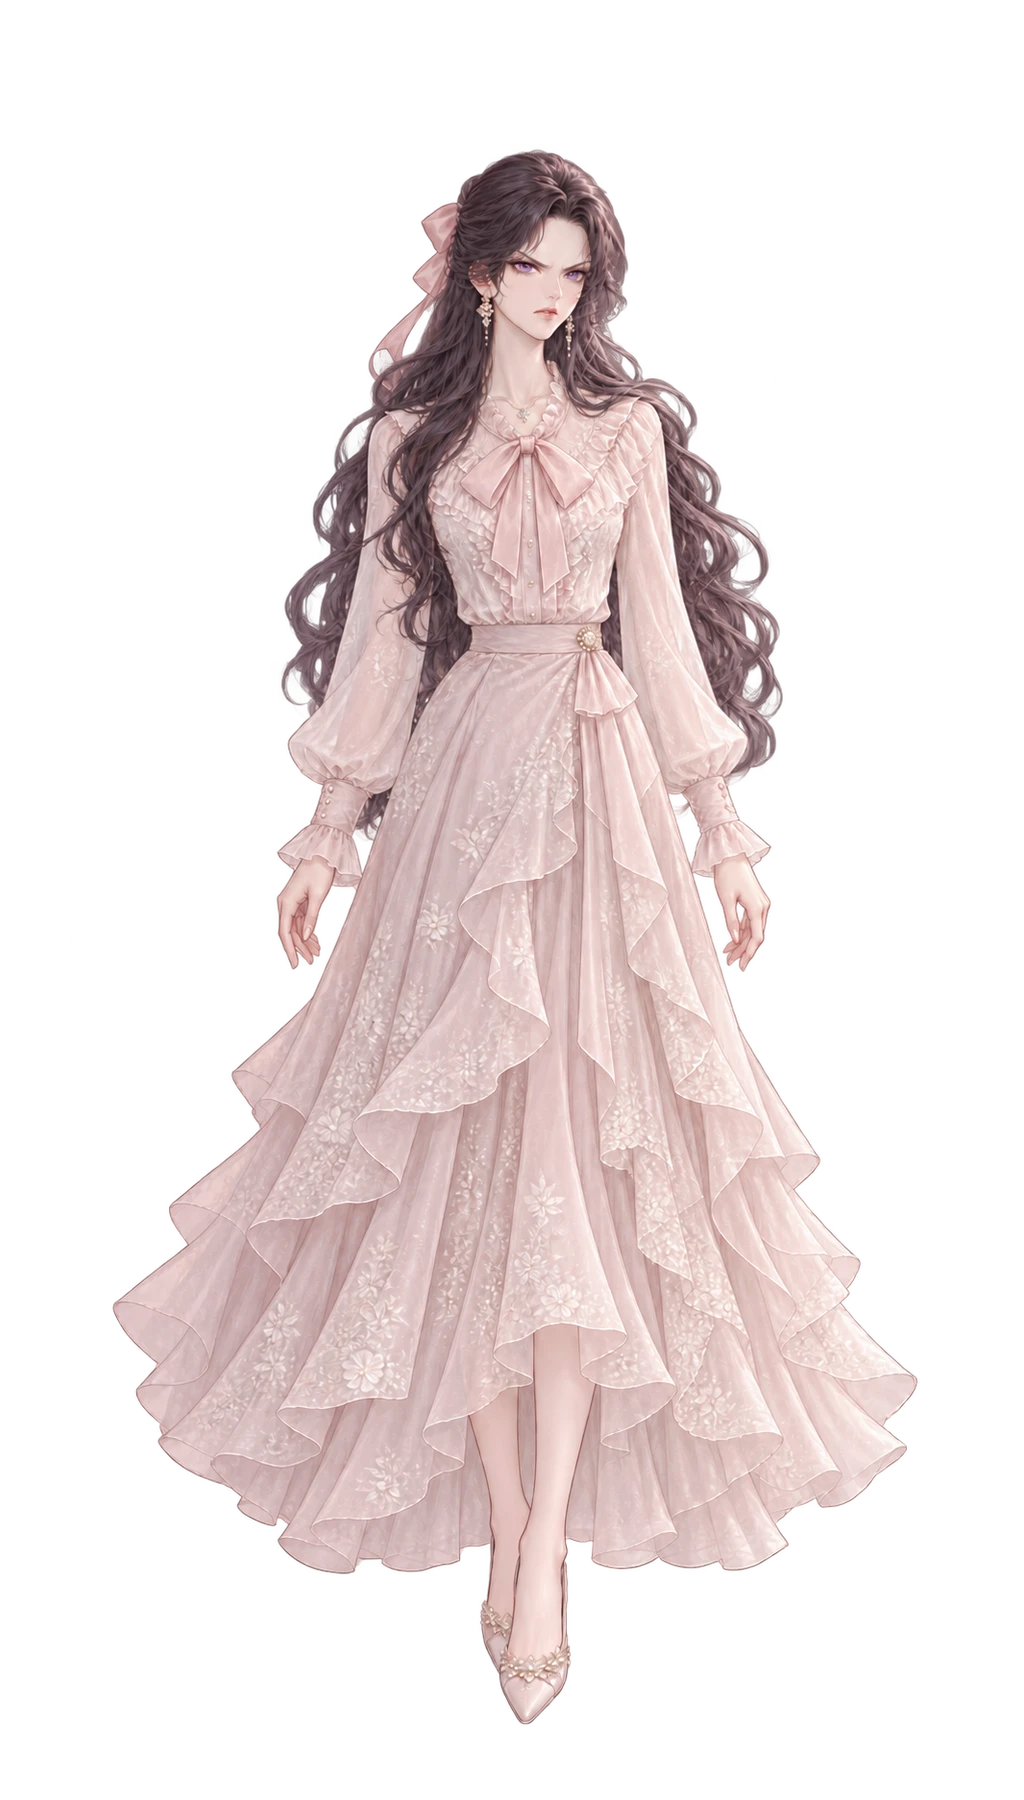
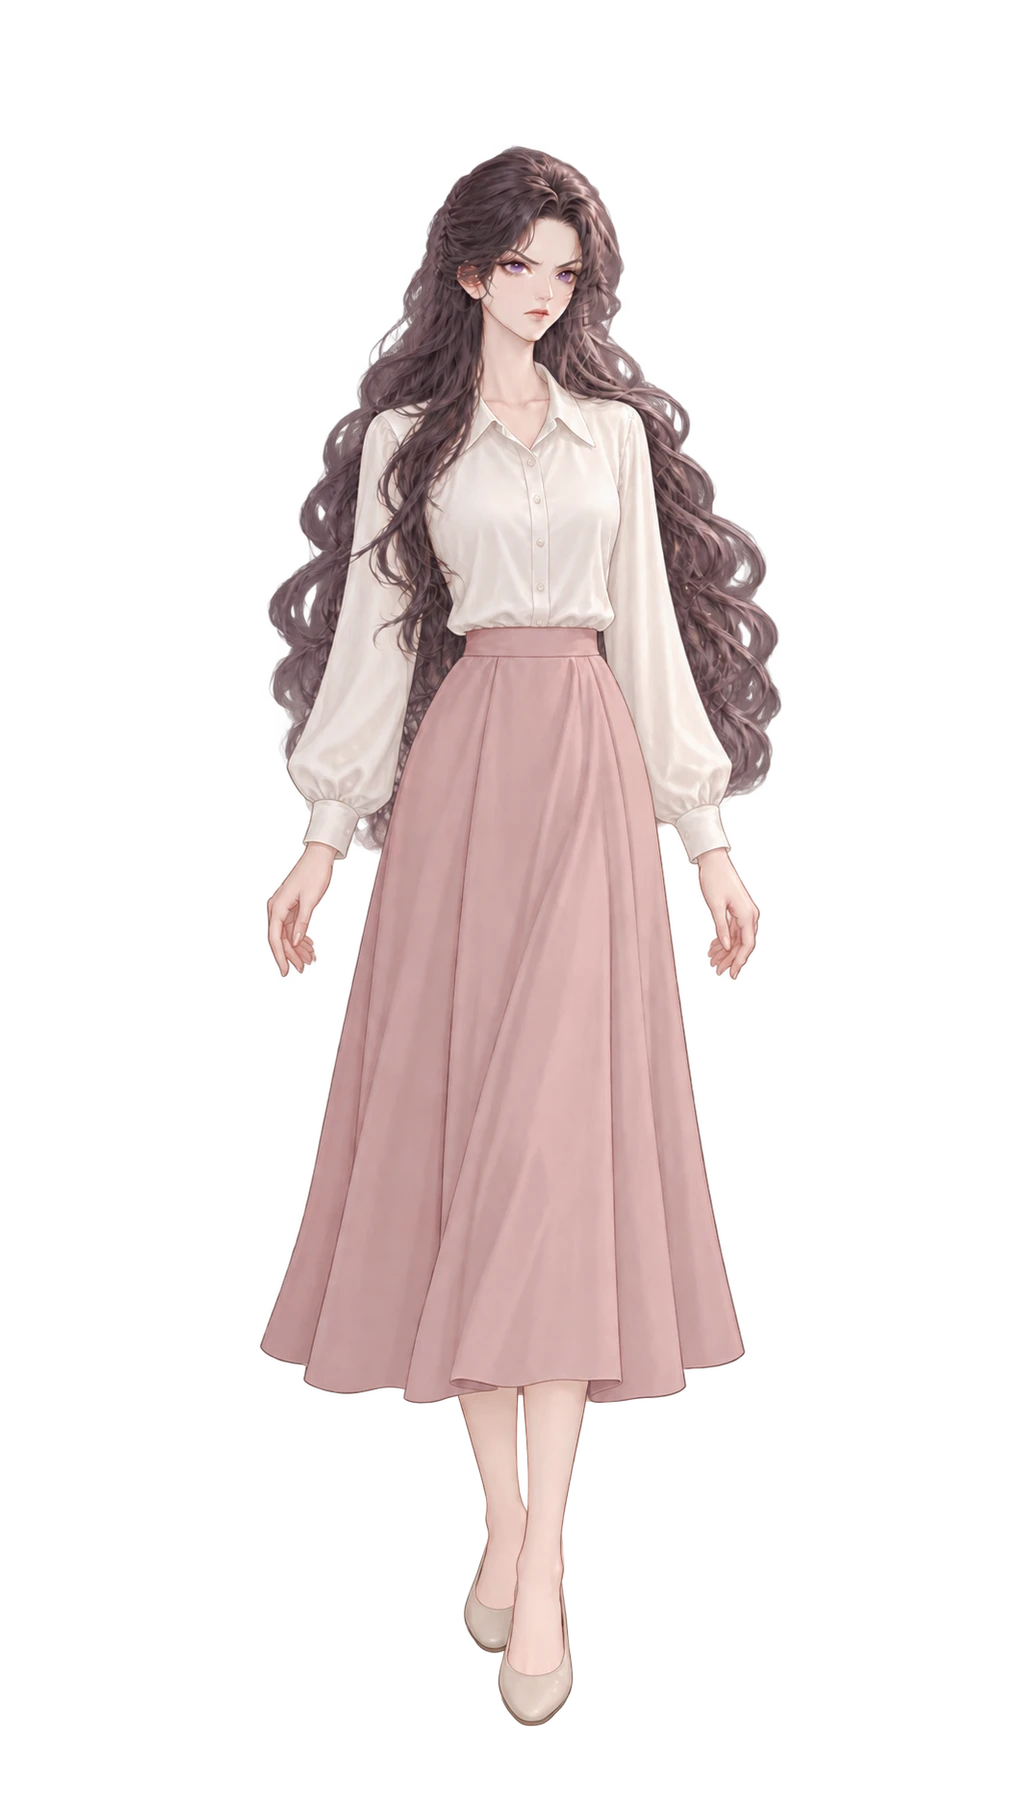
Integrate section10 art (S2 CGs, ning, expressions, love CGs)

Changed region(s): [[0.0938, 0.0622, 0.9062, 0.9644]]

diff --git a/js/assets.js b/js/assets.js
@@ -1,2 +1,2 @@
 // 自動生成：美術清單
-window.ASSETS = {"bg": ["black", "boardroom", "car", "court", "desk", "gala", "mansion", "office", "press", "rebirth", "room", "street", "wedding"], "cg": ["cg_all", "cg_board", "cg_fall", "cg_gown", "cg_gu_claim", "cg_lu_reject", "cg_necklace", "cg_outfit", "cg_week", "cg_wen_court", "cg_xiao_turn", "love_gu_1", "love_gu_2", "love_gu_3", "love_gu_4", "love_wen_1"], "chars": ["bai_normal_default", "bai_normal_red", "bai_normal_wedding", "dong_normal_default", "fa_normal_default", "gu_normal_default", "jiang_normal_default", "lm_normal_default", "lu_normal_default", "lu_normal_wedding", "rep_normal_default", "shen_angry_dying", "shen_angry_gala", "shen_angry_plain", "shen_angry_wedding", "shen_cold_dying", "shen_cold_gala", "shen_cold_wedding", "shen_normal_default", "shen_normal_dying", "shen_normal_gala", "shen_normal_plain", "shen_normal_suit", "shen_normal_wedding", "shen_sad_dying", "shen_sad_gala", "shen_sad_plain", "shen_sad_wedding", "shen_shock_dying", "shen_shock_gala", "shen_shock_plain", "shen_shock_wedding", "shen_smile_dying", "shen_smile_gala", "shen_smile_plain", "shen_smile_wedding", "shen_smirk_dying", "shen_smirk_gala", "shen_smirk_wedding", "wen_normal_default", "wen_normal_suit", "xiao_normal_coat", "xiao_normal_default"], "dress": ["night_acc_0", "night_acc_1", "night_acc_3", "night_dress_0", "night_dress_1", "night_dress_2", "night_dress_3", "shen_base", "star_acc_0", "star_acc_1", "star_acc_2", "star_acc_3", "star_dress_0", "star_dress_1", "star_dress_2", "star_dress_3", "star_hair_0", "star_hair_1", "star_hair_2"], "evidence": ["book_normal", "book_suspicious", "cup_normal", "cup_suspicious", "laptop_normal", "laptop_suspicious", "paper_normal", "paper_suspicious", "phone_normal", "phone_suspicious", "plant_normal", "plant_suspicious", "receipt_normal", "receipt_suspicious", "usb_normal", "usb_suspicious"], "ui": ["adaptive_background", "adaptive_foreground", "app_icon", "choice_heart", "choice_hidden", "choice_normal", "choice_super", "dialogue", "gem", "gu_avatar", "ic_stat_icon", "lock", "memory", "precog", "rage_empty", "rage_full", "slap", "speed_lines", "ticket", "vip", "wen_avatar", "xiao_avatar"]};
+window.ASSETS = {"bg": ["black", "boardroom", "car", "court", "desk", "gala", "mansion", "office", "press", "rebirth", "room", "street", "wedding"], "cg": ["cg_all", "cg_bai_arrest", "cg_board", "cg_fall", "cg_gown", "cg_gu_buy", "cg_gu_claim", "cg_gu_conf", "cg_lm_mask", "cg_lu_kneel", "cg_lu_reject", "cg_necklace", "cg_ning_fall", "cg_outfit", "cg_throne", "cg_trio_back", "cg_week", "cg_wen_conf", "cg_wen_court", "cg_wen_cross", "cg_xiao_conf", "cg_xiao_ledger", "cg_xiao_turn", "love_gu_1", "love_gu_2", "love_gu_3", "love_gu_4", "love_wen_1", "love_wen_2", "love_wen_3", "love_wen_4", "love_xiao_1", "love_xiao_2", "love_xiao_3", "love_xiao_4"], "chars": ["bai_angry_default", "bai_angry_red", "bai_angry_wedding", "bai_cold_default", "bai_cold_red", "bai_cold_wedding", "bai_normal_default", "bai_normal_red", "bai_normal_wedding", "bai_sad_default", "bai_sad_red", "bai_sad_wedding", "bai_shock_default", "bai_shock_red", "bai_shock_wedding", "bai_smile_default", "bai_smile_red", "bai_smile_wedding", "bai_smirk_default", "bai_smirk_red", "bai_smirk_wedding", "dong_angry_default", "dong_normal_default", "dong_shock_default", "fa_angry_default", "fa_normal_default", "fa_sad_default", "fa_shock_default", "fa_smile_default", "gu_angry_coat", "gu_angry_default", "gu_angry_formal", "gu_cold_coat", "gu_cold_default", "gu_cold_formal", "gu_normal_coat", "gu_normal_default", "gu_sad_coat", "gu_sad_default", "gu_sad_formal", "gu_shock_coat", "gu_shock_default", "gu_shock_formal", "gu_smile_coat", "gu_smile_default", "gu_smile_formal", "gu_smirk_coat", "gu_smirk_default", "gu_smirk_formal", "jiang_angry_default", "jiang_normal_default", "jiang_shock_default", "lm_angry_default", "lm_cold_default", "lm_normal_default", "lm_sad_default", "lm_shock_default", "lm_smile_default", "lm_smirk_default", "lu_angry_default", "lu_angry_wedding", "lu_cold_default", "lu_cold_wedding", "lu_normal_default", "lu_normal_wedding", "lu_sad_default", "lu_sad_wedding", "lu_shock_default", "lu_shock_wedding", "lu_smile_default", "lu_smile_wedding", "lu_smirk_default", "lu_smirk_wedding", "ning_cold_default", "ning_cold_gala", "ning_cold_suit", "ning_normal_default", "ning_normal_gala", "ning_normal_suit", "ning_sad_default", "ning_sad_gala", "ning_sad_suit", "ning_shock_default", "ning_shock_gala", "ning_shock_suit", "ning_smirk_default", "ning_smirk_gala", "ning_smirk_suit", "rep_angry_default", "rep_normal_default", "rep_shock_default", "shen_angry_default", "shen_angry_dying", "shen_angry_gala", "shen_angry_plain", "shen_angry_suit", "shen_angry_wedding", "shen_cold_default", "shen_cold_dying", "shen_cold_gala", "shen_cold_plain", "shen_cold_suit", "shen_cold_wedding", "shen_normal_default", "shen_normal_dying", "shen_normal_gala", "shen_normal_plain", "shen_normal_suit", "shen_normal_wedding", "shen_sad_default", "shen_sad_dying", "shen_sad_gala", "shen_sad_plain", "shen_sad_suit", "shen_sad_wedding", "shen_shock_default", "shen_shock_dying", "shen_shock_gala", "shen_shock_plain", "shen_shock_suit", "shen_shock_wedding", "shen_smile_default", "shen_smile_dying", "shen_smile_gala", "shen_smile_plain", "shen_smile_suit", "shen_smile_wedding", "shen_smirk_default", "shen_smirk_dying", "shen_smirk_gala", "shen_smirk_plain", "shen_smirk_suit", "shen_smirk_wedding", "wen_angry_default", "wen_angry_law", "wen_angry_suit", "wen_cold_default", "wen_cold_law", "wen_cold_suit", "wen_normal_default", "wen_normal_suit", "wen_sad_default", "wen_sad_law", "wen_sad_suit", "wen_shock_default", "wen_shock_law", "wen_shock_suit", "wen_smile_default", "wen_smile_law", "wen_smile_suit", "wen_smirk_default", "wen_smirk_law", "wen_smirk_suit", "xiao_angry_coat", "xiao_angry_default", "xiao_angry_formal", "xiao_cold_coat", "xiao_cold_default", "xiao_cold_formal", "xiao_normal_coat", "xiao_normal_default", "xiao_sad_coat", "xiao_sad_default", "xiao_sad_formal", "xiao_shock_coat", "xiao_shock_default", "xiao_shock_formal", "xiao_smile_coat", "xiao_smile_default", "xiao_smile_formal", "xiao_smirk_coat", "xiao_smirk_default", "xiao_smirk_formal"], "dress": ["night_acc_0", "night_acc_1", "night_acc_2", "night_acc_3", "night_dress_0", "night_dress_1", "night_dress_2", "night_dress_3", "night_hair_0", "night_hair_1", "night_hair_2", "shen_base", "star_acc_0", "star_acc_1", "star_acc_2", "star_acc_3", "star_dress_0", "star_dress_1", "star_dress_2", "star_dress_3", "star_hair_0", "star_hair_1", "star_hair_2"], "evidence": ["book_normal", "book_suspicious", "cup_normal", "cup_suspicious", "laptop_normal", "laptop_suspicious", "paper_normal", "paper_suspicious", "phone_normal", "phone_suspicious", "plant_normal", "plant_suspicious", "receipt_normal", "receipt_suspicious", "usb_normal", "usb_suspicious"], "ui": ["adaptive_background", "adaptive_foreground", "app_icon", "choice_heart", "choice_hidden", "choice_normal", "choice_super", "dialogue", "gem", "gu_avatar", "ic_stat_icon", "lock", "memory", "precog", "rage_empty", "rage_full", "slap", "speed_lines", "ticket", "vip", "wen_avatar", "xiao_avatar"]};

diff --git a/sw.js b/sw.js
@@ -1,5 +1,5 @@
 // 簡單離線快取：先網絡，失敗用快取
-const C = 'sq-v1';
+const C = 'sq-v2';
 self.addEventListener('install', e => self.skipWaiting());
 self.addEventListener('activate', e => e.waitUntil(self.clients.claim()));
 self.addEventListener('fetch', e => {
